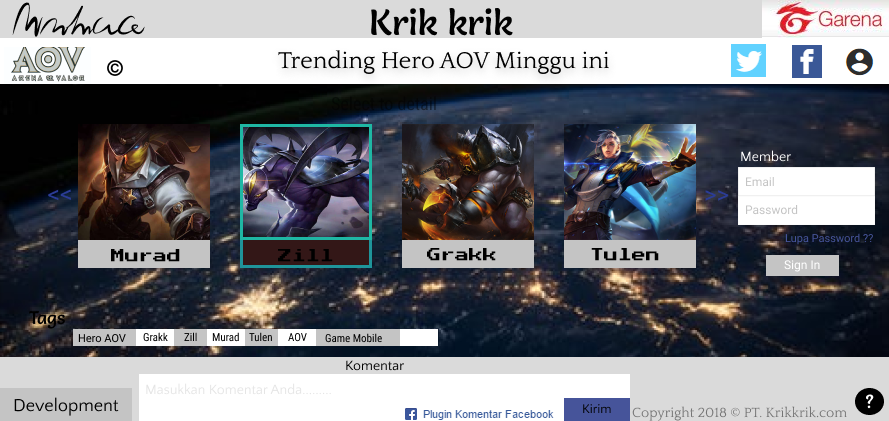
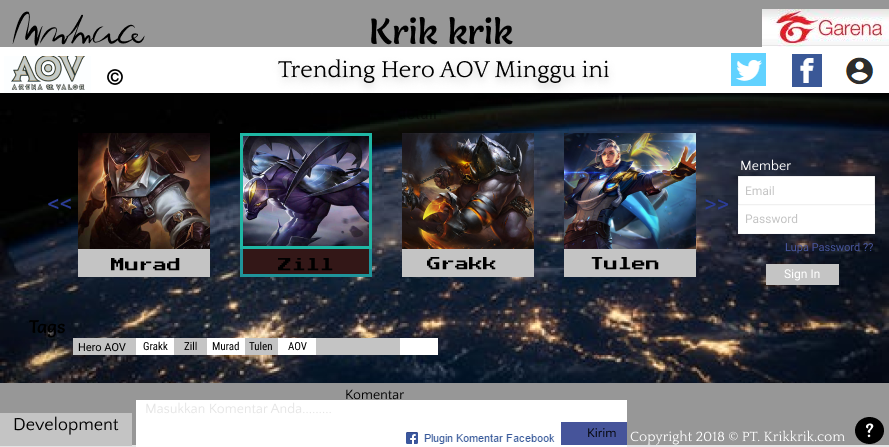
Activity : -add hyperlink -add ol and ul -finishing design

diff --git a/Tugas_1.html b/Tugas_1.html
@@ -3,34 +3,47 @@
 <head>
 	<title>Tugas1</title>
 </head>
-<body>
+<body bgcolor="white">
 	<table style="border:0;border-collapse: collapse;border-spacing: 0">
-		<tr bgcolor="#DADADA">
-		<center>
-		<td width="100"><font color="black"><b>KrikKrik</b></font></td>
-		</center> 
-		<td><font color="black">Admin</font></td>
-		 <td> </td>
-			<td> </td>
-			<td> </td>
-			<td> </td>
-			<td> </td>
-			<td> </td>
-
-			<td width="100%">
-				<img src="garena.JPG" width="127">
-			</td>
-		</tr>
-		<tr bgcolor="white" width="100%">
-			<td colspan="200" align="center">Trending Hero Minggu Ini</td>
+		<div>
+			<tr bgcolor="#DADADA">
+				<center>
+					<td width="300" align="center">
+						<font color="black"><b>KrikKrik</b></font>
+					</td>
+				</center> 
+				<td align="left">
+					<a href="Admin"></a>
+				</td>
+				<td colspan="90" width="100%">
+					<img src="garena.JPG" width="127">
+				</td>
+			</tr>
+		</div>
+		<tr bgcolor="white" width="100">
+			<td colspan="200"align="center">Trending Hero Minggu Ini</td>
 			<td>
 				<img src="twt.JPG"> 
 			</td>
 		</tr>
-		<tr bgcolor="black" ></tr>
+	<br>
+		<br>
+		<br>
+		<br>
+		<br>
+		<tr colspan="87" rowspan="77">
+			<td> <img src="bb.JPG" sizes="89" height="78"></td>
+			<td> daftar makanan :
+			<ol> <li>  mendoan</li>
+			<li>  nasi goreng</li></ol>
+			<ul type="cyrcle">
+				<li> jajan</li>
+				<li> aaaaaaaaaaa</li>
+			</ul>
+			<a href="https://facebook.com"> Facebook </a>
+</td>
+		</tr>
+	</br>
 	</table>
-		
-	</tr>
-
 </body>
 </html>

diff --git a/Tugas_webaov.html b/Tugas_webaov.html
@@ -5,8 +5,16 @@
 </head>
 <body>
 	<table>
-		<tr background="u.jpg">
-			<td></td>
+		<tr bgcolor="#12345">
+			<br>
+			<br>
+			<br>
+			<br>
+			<br>
+			<br>
+			<br>
+			<br>
+			<td><img src="garena.JPG" width="127px"heigth="38 px"></td>
 			<td></td>
 			<td></td>
 			<td></td>
